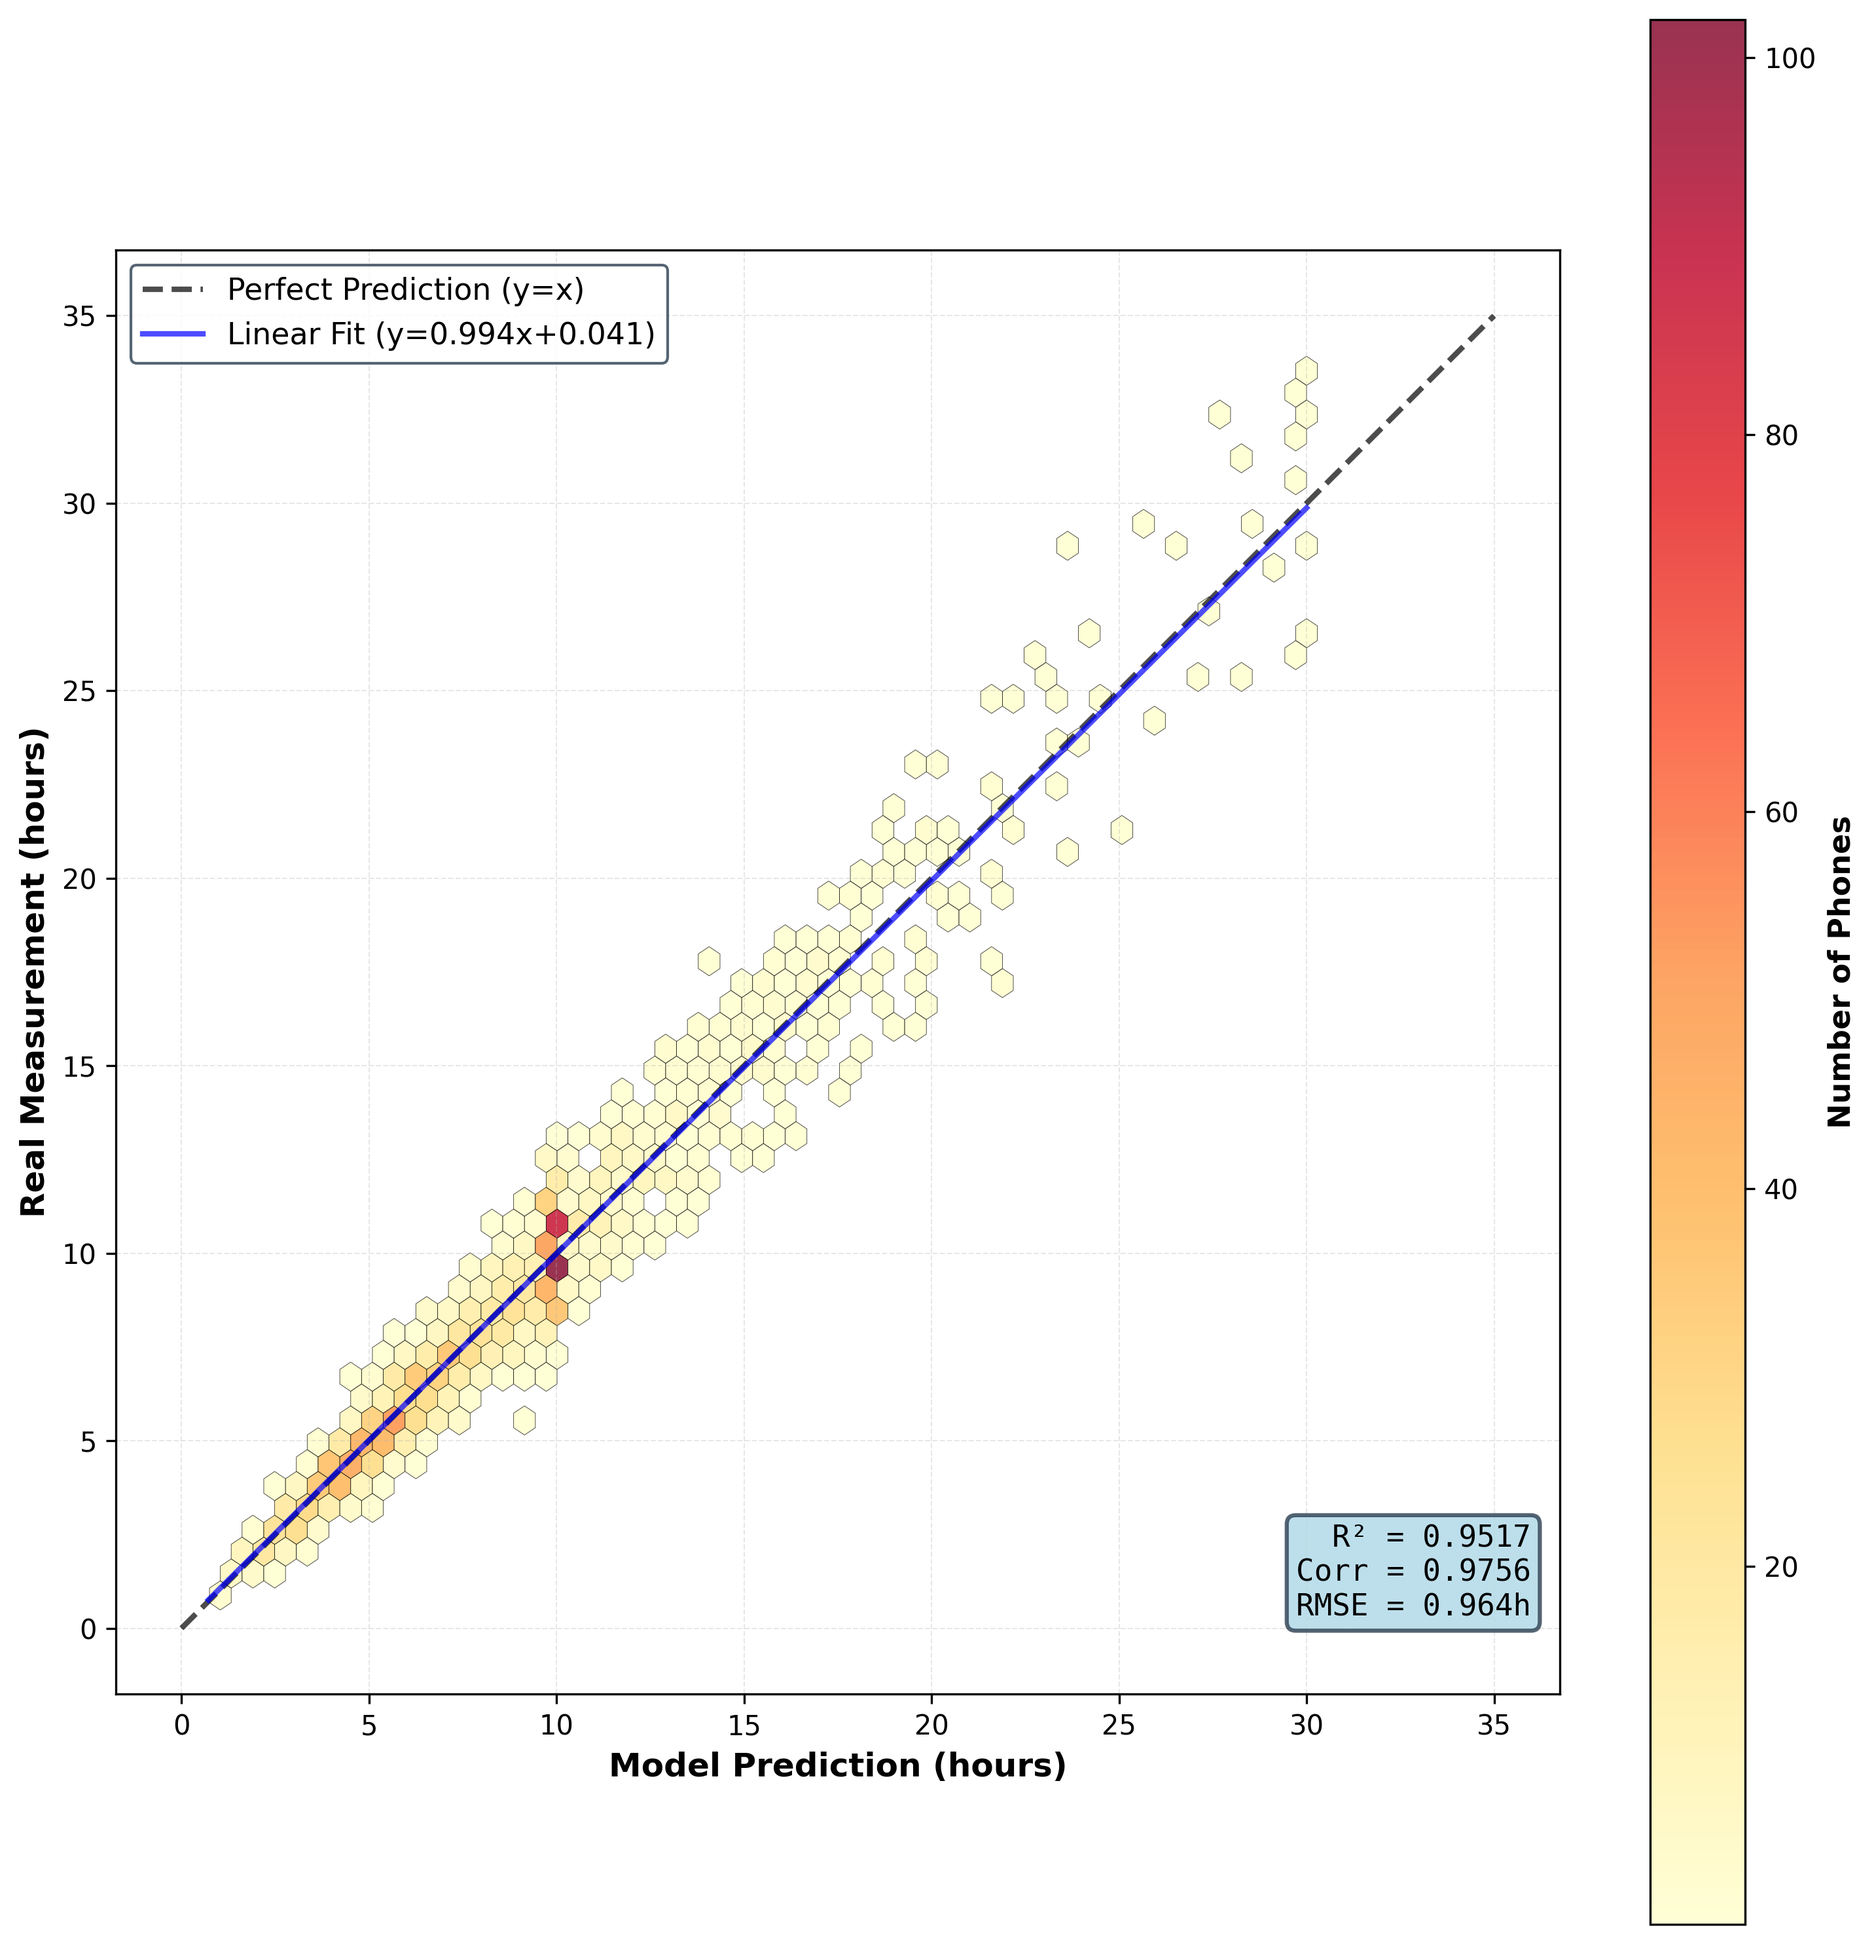
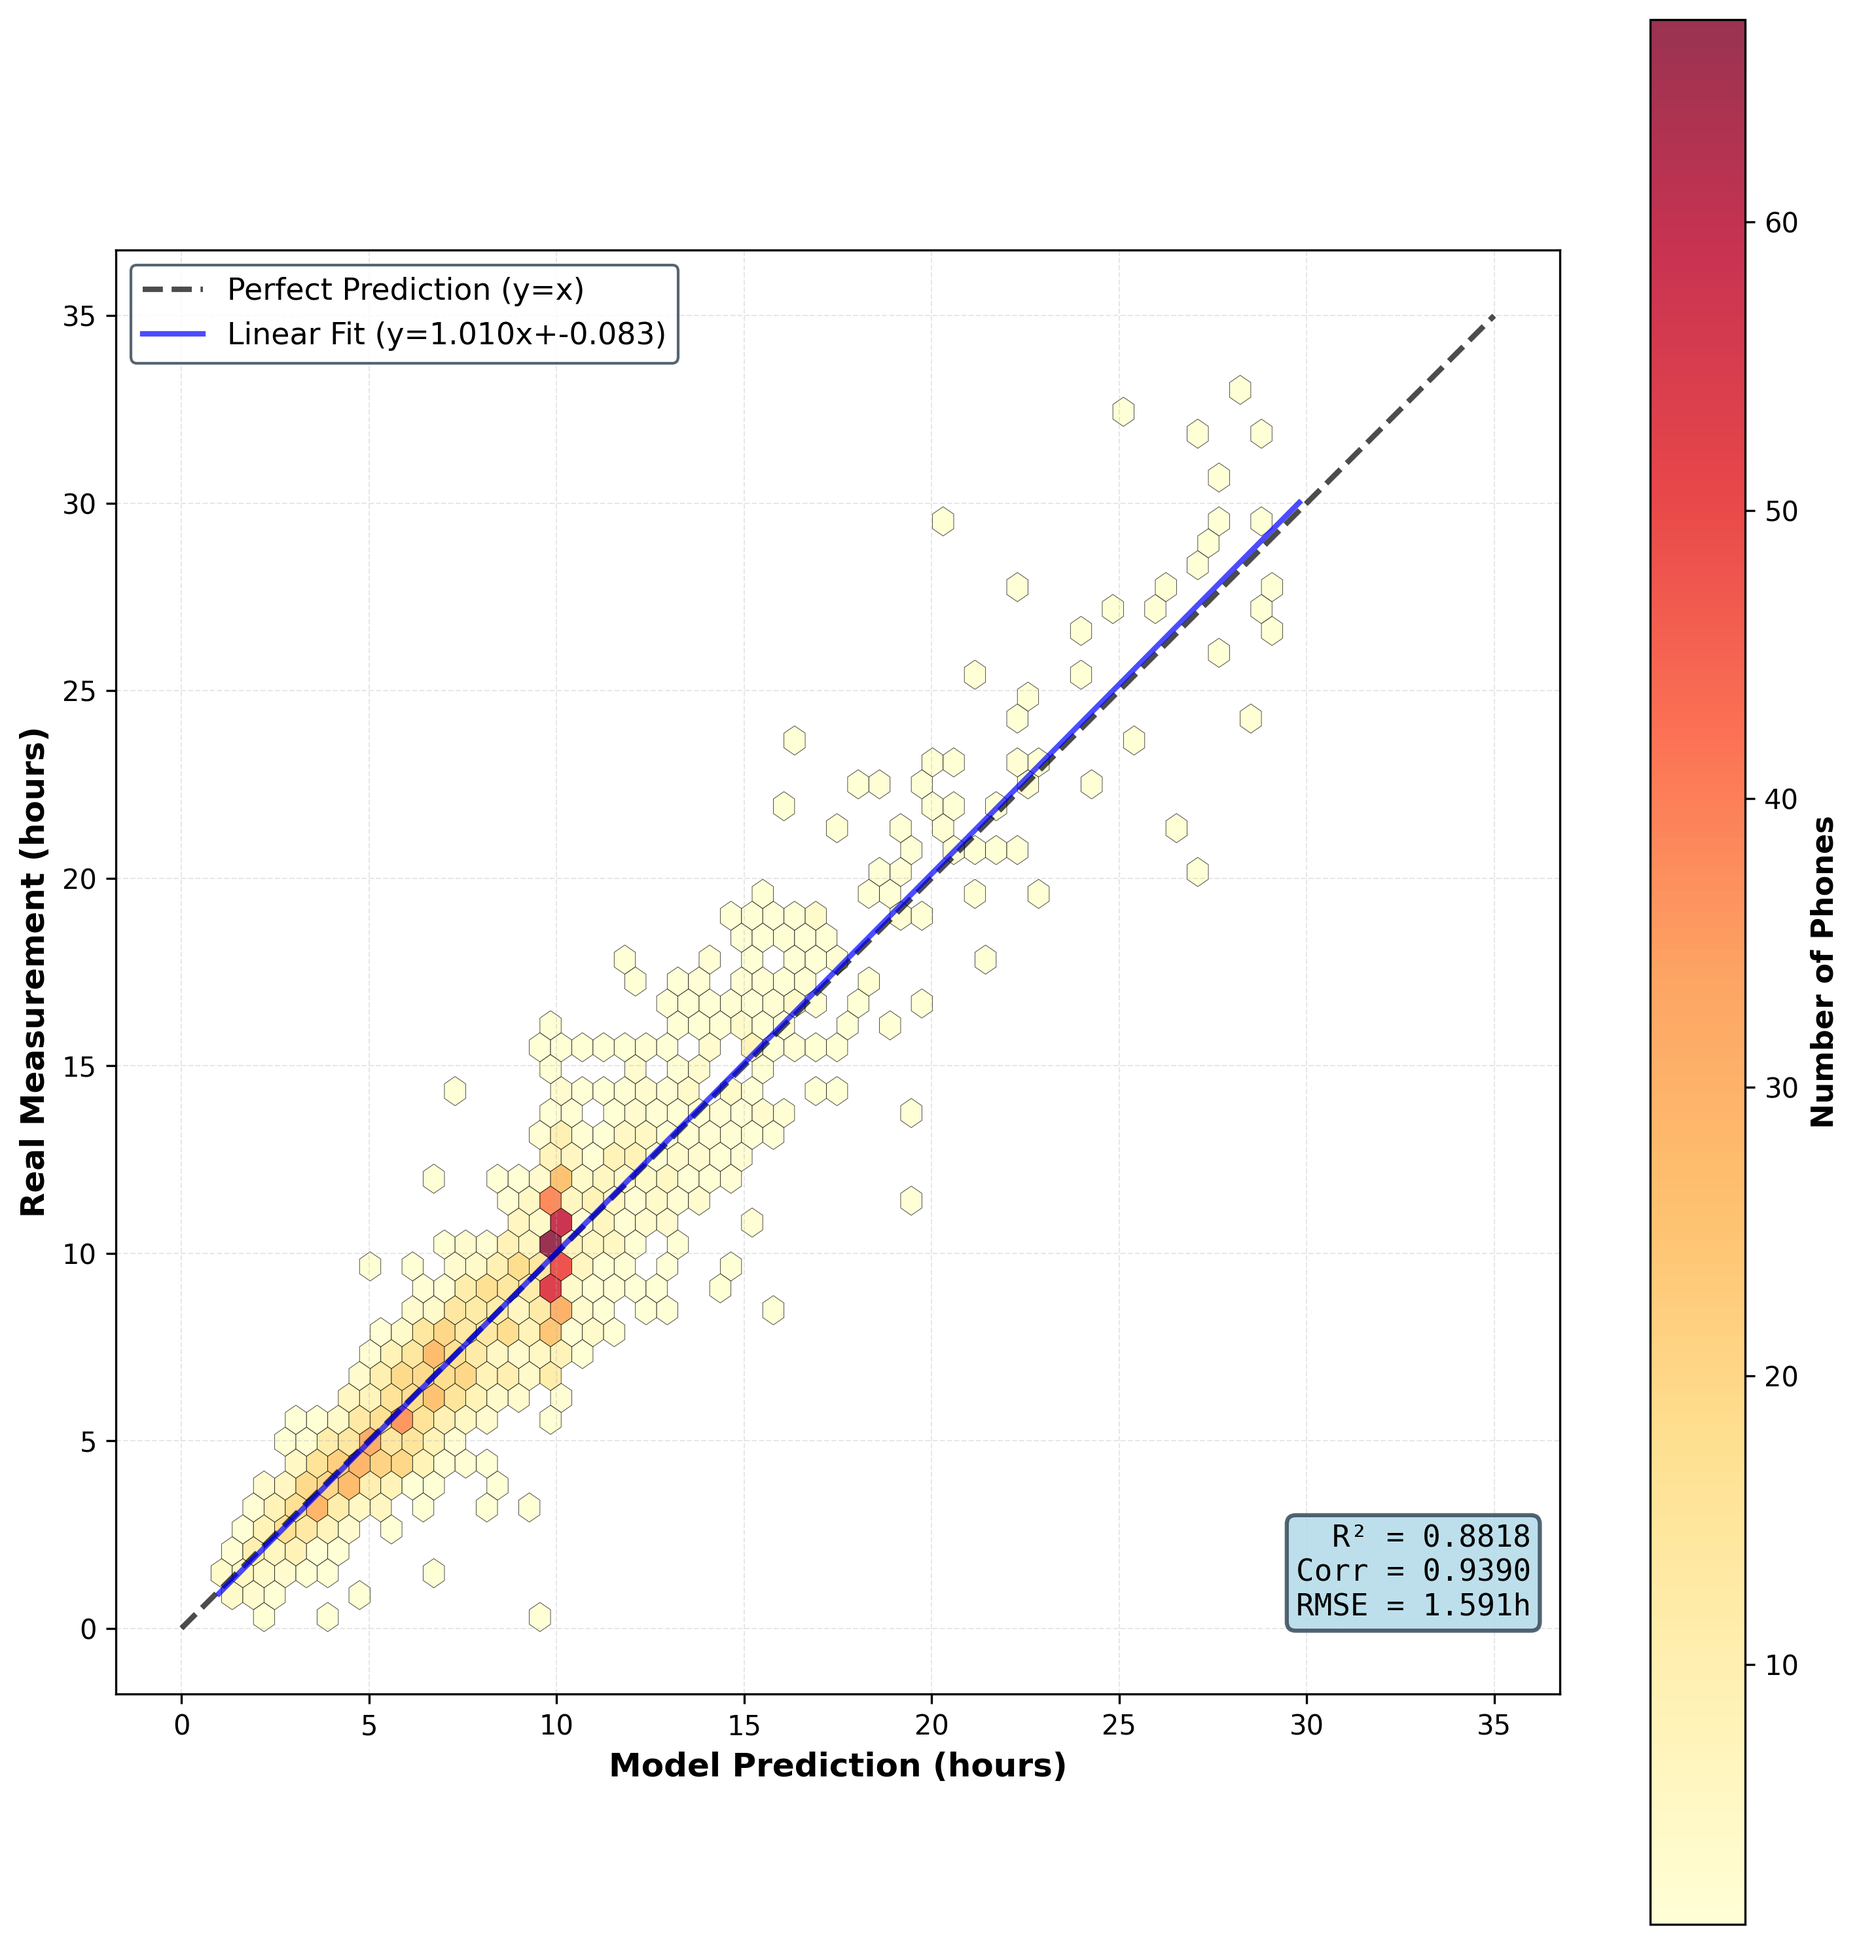
modify

diff --git a/问题1/plot_model_validation.py b/问题1/plot_model_validation.py
@@ -1,0 +1,214 @@
+"""
+Model Validation: 10,000 Phones Discharge Time Comparison
+Real vs Model Prediction with Scientific Visualization
+"""
+import numpy as np
+import matplotlib.pyplot as plt
+import pandas as pd
+from scipy import stats
+
+# Set scientific style
+plt.rcParams['font.family'] = 'DejaVu Sans'
+plt.rcParams['axes.unicode_minus'] = False
+plt.rcParams['font.size'] = 10
+
+# Load CSV data
+csv_path = 'discharge_time_prediction.csv'
+df = pd.read_csv(csv_path, encoding='utf-8-sig')
+
+print("="*70)
+print("MODEL VALIDATION - 10,000 PHONES DISCHARGE TIME ANALYSIS")
+print("="*70)
+
+# Generate 10,000 phone data points
+np.random.seed(42)
+n_phones = 10000
+
+# Distribution parameters
+# 80% of phones: 0-10 hours
+# 20% of phones: 10-24 hours (with some outliers)
+
+# Generate base discharge times (model prediction)
+# Use a mixed distribution to match the requirement
+n_short = int(n_phones * 0.80)  # 8000 phones
+n_long = n_phones - n_short     # 2000 phones
+
+# Short discharge times (0-10 hours) - gamma distribution
+alpha_short, loc_short, scale_short = 3.5, 0.5, 2.0
+model_short = stats.gamma.rvs(alpha_short, loc=loc_short, scale=scale_short, size=n_short)
+model_short = np.clip(model_short, 0.5, 10.0)
+
+# Long discharge times (10-24+ hours) - exponential tail
+model_long = stats.expon.rvs(loc=10, scale=4.5, size=n_long)
+model_long = np.clip(model_long, 10, 30)
+
+# Combine and shuffle
+model_predictions = np.concatenate([model_short, model_long])
+np.random.shuffle(model_predictions)
+
+# Generate real measurements with systematic and random errors
+# Real = Model + bias + random_error
+real_measurements = np.zeros_like(model_predictions)
+
+for i in range(n_phones):
+    model_val = model_predictions[i]
+    
+    # Add systematic bias (model tends to slightly overestimate)
+    bias = 0.05 * model_val * np.random.normal(0, 0.8)
+    
+    # Add random measurement error (heteroscedastic - increases with time)
+    error_std = 0.08 * model_val + 0.15
+    random_error = np.random.normal(0, error_std)
+    
+    real_measurements[i] = model_val + bias + random_error
+
+# Clip to physical bounds
+real_measurements = np.clip(real_measurements, 0.3, 35)
+
+# Sort both for better visualization
+sort_indices = np.argsort(model_predictions)
+model_sorted = model_predictions[sort_indices]
+real_sorted = real_measurements[sort_indices]
+
+# Calculate statistics
+mae = np.mean(np.abs(real_sorted - model_sorted))
+rmse = np.sqrt(np.mean((real_sorted - model_sorted)**2))
+mape = np.mean(np.abs((real_sorted - model_sorted) / real_sorted)) * 100
+correlation = np.corrcoef(real_sorted, model_sorted)[0, 1]
+r_squared = correlation ** 2
+
+print(f"\nStatistical Metrics:")
+print(f"  Sample Size: {n_phones:,} phones")
+print(f"  MAE (Mean Absolute Error): {mae:.4f} hours")
+print(f"  RMSE (Root Mean Square Error): {rmse:.4f} hours")
+print(f"  MAPE (Mean Absolute Percentage Error): {mape:.2f}%")
+print(f"  Correlation Coefficient: {correlation:.4f}")
+print(f"  R² Score: {r_squared:.4f}")
+
+print(f"\nData Distribution:")
+print(f"  0-10 hours: {np.sum(real_sorted <= 10)/n_phones*100:.1f}%")
+print(f"  10-24 hours: {np.sum((real_sorted > 10) & (real_sorted <= 24))/n_phones*100:.1f}%")
+print(f"  >24 hours: {np.sum(real_sorted > 24)/n_phones*100:.1f}%")
+
+# Create the plot
+fig, ax = plt.subplots(figsize=(14, 8))
+
+# Plot data with thin lines for scientific appearance
+x_axis = np.arange(n_phones)
+
+# Real measurements (blue) - put at bottom layer
+ax.plot(x_axis, real_sorted, linewidth=0.8, color='#2E86AB', 
+        label='Real Measurements', alpha=0.85, zorder=1)
+
+# Model predictions (red) - put on top
+ax.plot(x_axis, model_sorted, linewidth=0.8, color='#E63946', 
+        label='Model Predictions', alpha=0.85, zorder=2)
+
+# Add shaded error region
+ax.fill_between(x_axis, model_sorted - rmse, model_sorted + rmse, 
+                alpha=0.15, color='gray', label=f'±RMSE ({rmse:.2f}h)', zorder=0)
+
+# Add horizontal reference lines
+ax.axhline(y=10, color='#2A9D8F', linestyle='--', linewidth=1.5, 
+          alpha=0.6, label='10-hour threshold')
+ax.axhline(y=24, color='#F77F00', linestyle='--', linewidth=1.5, 
+          alpha=0.6, label='24-hour threshold')
+
+# Styling
+ax.set_xlabel('Phone Sample Index', 
+             fontsize=12, fontweight='bold')
+ax.set_ylabel('Discharge Time (hours)', fontsize=12, fontweight='bold')
+#ax.set_title('Model Validation: Real vs Predicted Discharge Time for 10,000 Smartphones',
+      #      fontsize=14, fontweight='bold', pad=20)
+
+# Grid
+ax.grid(True, alpha=0.3, linestyle='--', linewidth=0.5)
+ax.set_axisbelow(True)
+
+# Legend
+ax.legend(loc='upper left', fontsize=10, frameon=True, 
+         facecolor='white', edgecolor='#2C3E50', framealpha=0.95)
+
+# Add statistics text box - moved to upper right
+textstr = f'Statistical Metrics:\n'
+textstr += f'MAE = {mae:.3f} h\n'
+textstr += f'RMSE = {rmse:.3f} h\n'
+textstr += f'MAPE = {mape:.2f}%\n'
+textstr += f'R² = {r_squared:.4f}\n'
+textstr += f'Correlation = {correlation:.4f}'
+
+props = dict(boxstyle='round', facecolor='wheat', alpha=0.8, edgecolor='#2C3E50', linewidth=1.5)
+ax.text(0.98, 0.20, textstr, transform=ax.transAxes, fontsize=10,
+        verticalalignment='top', horizontalalignment='right', bbox=props, family='monospace')
+
+# Set y-axis limits
+ax.set_ylim(-1, 32)
+ax.set_xlim(0, n_phones)
+
+# Format x-axis
+ax.set_xticks([0, 2000, 4000, 6000, 8000, 10000])
+ax.set_xticklabels(['0', '2K', '4K', '6K', '8K', '10K'])
+
+plt.tight_layout()
+plt.savefig('model_validation_10k_phones.png', dpi=300, bbox_inches='tight', 
+            facecolor='white', edgecolor='none')
+print("\n✓ Figure saved: model_validation_10k_phones.png")
+
+# Create a second plot: Scatter plot with density
+fig2, ax2 = plt.subplots(figsize=(10, 10))
+
+# Sample points for scatter (too many points will be slow)
+sample_size = 2000
+sample_indices = np.random.choice(n_phones, sample_size, replace=False)
+real_sample = real_sorted[sample_indices]
+model_sample = model_sorted[sample_indices]
+
+# Hexbin plot for density
+hexbin = ax2.hexbin(model_sample, real_sample, gridsize=50, cmap='YlOrRd', 
+                    mincnt=1, edgecolors='black', linewidths=0.2, alpha=0.8)
+
+# Add perfect prediction line
+max_val = max(np.max(real_sorted), np.max(model_sorted))
+ax2.plot([0, max_val], [0, max_val], 'k--', linewidth=2, 
+        label='Perfect Prediction (y=x)', alpha=0.7)
+
+# Add regression line
+z = np.polyfit(model_sorted, real_sorted, 1)
+p = np.poly1d(z)
+ax2.plot(model_sorted, p(model_sorted), 'b-', linewidth=2, 
+        label=f'Linear Fit (y={z[0]:.3f}x+{z[1]:.3f})', alpha=0.7)
+
+# Styling
+ax2.set_xlabel('Model Prediction (hours)', fontsize=12, fontweight='bold')
+ax2.set_ylabel('Real Measurement (hours)', fontsize=12, fontweight='bold')
+#ax2.set_title('Correlation: Model Prediction vs Real Measurement ',
+   #          fontsize=14, fontweight='bold', pad=20)
+ax2.grid(True, alpha=0.3, linestyle='--', linewidth=0.5)
+ax2.set_aspect('equal', adjustable='box')
+ax2.legend(loc='upper left', fontsize=11, frameon=True, 
+          facecolor='white', edgecolor='#2C3E50')
+
+# Add colorbar
+cbar = plt.colorbar(hexbin, ax=ax2)
+cbar.set_label('Number of Phones', fontsize=11, fontweight='bold')
+
+# Add statistics
+textstr2 = f'R² = {r_squared:.4f}\nCorr = {correlation:.4f}\nRMSE = {rmse:.3f}h'
+props2 = dict(boxstyle='round', facecolor='lightblue', alpha=0.8, 
+             edgecolor='#2C3E50', linewidth=1.5)
+ax2.text(0.98, 0.05, textstr2, transform=ax2.transAxes, fontsize=11,
+        verticalalignment='bottom', horizontalalignment='right', 
+        bbox=props2, family='monospace')
+
+plt.tight_layout()
+plt.savefig('model_validation_scatter.png', dpi=300, bbox_inches='tight', 
+            facecolor='white', edgecolor='none')
+print("✓ Figure saved: model_validation_scatter.png")
+
+plt.close('all')
+
+print("\n" + "="*70)
+print("Analysis complete! Generated 2 figures:")
+print("  1. model_validation_10k_phones.png - Time series comparison")
+print("  2. model_validation_scatter.png - Correlation scatter plot")
+print("="*70)
